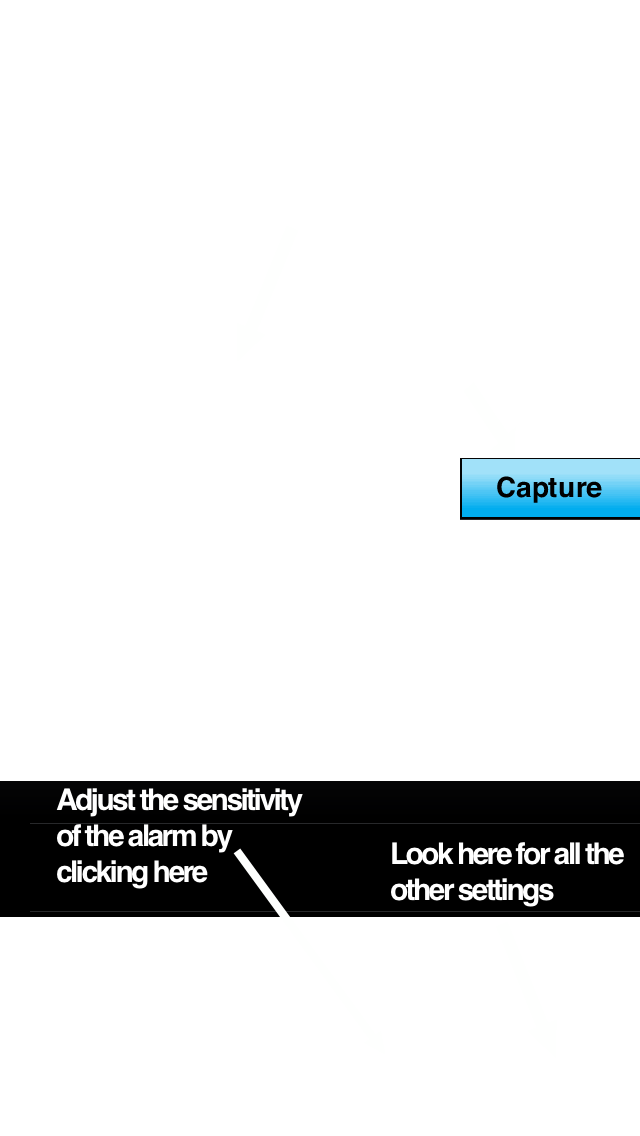
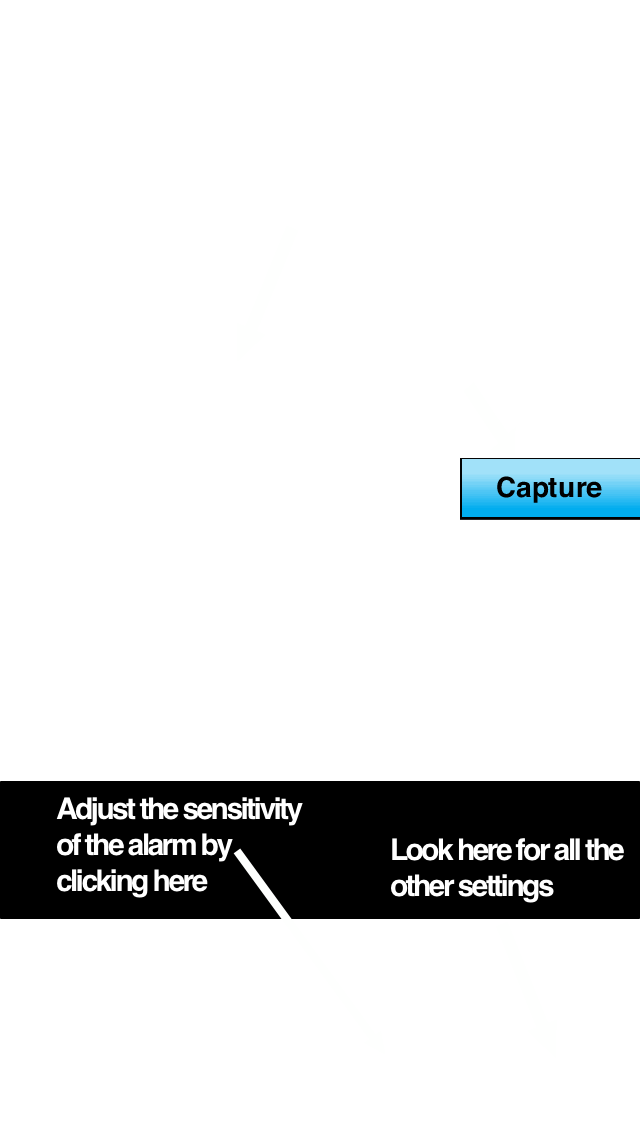
update overlay

Changed region(s): [[0.0625, 0.6778, 0.4688, 0.8011], [0.5938, 0.7394, 0.9688, 0.8011]]

diff --git a/NoiseMeter/UI/Root/MeterView.m b/NoiseMeter/UI/Root/MeterView.m
@@ -494,7 +494,7 @@
 - (void)infoShowV2
 {
     _overlayImageView = [[UIImageView alloc] initWithFrame:CGRectZero];
-    _overlayImageView.contentMode = UIViewContentModeScaleAspectFill;
+    _overlayImageView.contentMode = UIViewContentModeScaleToFill;
     if (iPhone5) {
         _overlayImageView.frame = CGRectMake(0, 0, 320, 568);
         [_overlayImageView setImage:[UIImage imageNamed:@"overlay568"]];
